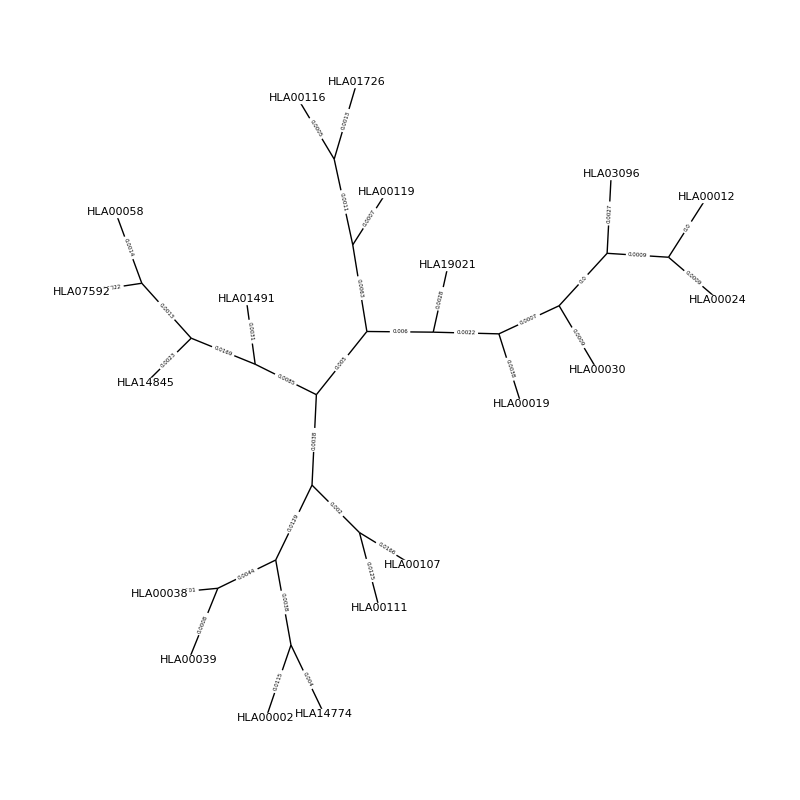
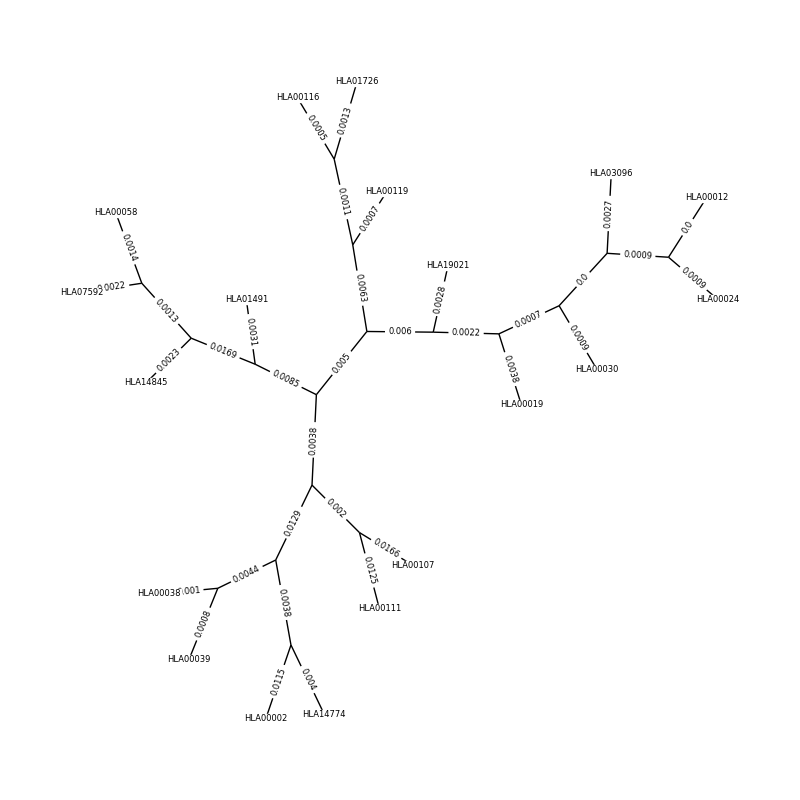
readme, comments on compareAlgorithms

diff --git a/compareAlgorithms.py b/compareAlgorithms.py
@@ -8,24 +8,34 @@ import NeighborJoiningV2
 import UPGMA
 from GenerateMatrix import calculate_distance_matrix
 
+#suffix of input files read and png files output
 suffix = ["HLAA", "HLAB","HLAC"]
 
 for c in range(len(suffix)):
     names = []
+    #read sequences in file [c]
     alignment = AlignIO.read("io/aligned_" + suffix[c] + ".txt", "fasta")
     for record in alignment:
         names.append(record.id)
 
+    #calculate distance matrix
     distance_matrix = calculate_distance_matrix(alignment)
 
+    #params: distance matrix, name of each sequence, places to round branch lengths to
+    #returns: newick string
     upgma_result = UPGMA.UPGMA(distance_matrix,names, 4)
+    # params: distance matrix, places to round branch lengths to
+    # returns: tuple (array cluster, networkx graph)
     nj_result = NeighborJoiningV2.NeighborJoining2(distance_matrix,4)
 
+    #save tree to file and queues up plot
     parser = Phylo.NewickIO.Parser.from_string(upgma_result)
     tree = parser.parse()
     Phylo.draw(list(tree)[0], branch_labels=lambda c: c.branch_length, do_show=False)
-    plt.savefig('io/upgma_' + suffix[c] + '.png')  # Adjust dpi as needed
-    #plt.close()
+    plt.savefig('io/upgma_' + suffix[c] + '.png')
 
+    #save tree to file and queues up plot
     NeighborJoiningV2.saveGraph(nj_result[1], names, 'io/nj_' + suffix[c] + '.png')
+
+    #display queued trees
     plt.show()

diff --git a/NeighborJoiningV2.py b/NeighborJoiningV2.py
@@ -129,9 +129,9 @@ def displayGraph(G, names):
         G, pos, ax=ax
     )
     minlens = nx.get_edge_attributes(G, 'minlen')
-    nx.draw_networkx_edge_labels(G, pos, edge_labels=minlens, font_size=8)
+    nx.draw_networkx_edge_labels(G, pos, edge_labels=minlens, font_size=5)
     nx.draw_networkx_labels(
-        G, pos, ax=ax, labels=nameLabels, font_size=10,
+        G, pos, ax=ax, labels=nameLabels, font_size=8,
         bbox=dict(pad=0, color="white")
     )
     fig.tight_layout()
@@ -151,9 +151,9 @@ def saveGraph(G, names, file_name):
         G, pos, ax=ax
     )
     minlens = nx.get_edge_attributes(G, 'minlen')
-    nx.draw_networkx_edge_labels(G, pos, font_size=4, edge_labels=minlens)
+    nx.draw_networkx_edge_labels(G, pos, font_size=6, edge_labels=minlens)
     nx.draw_networkx_labels(
-        G, pos, ax=ax, labels=nameLabels, font_size=8,
+        G, pos, ax=ax, labels=nameLabels, font_size=6,
         bbox=dict(pad=0, color="white")
     )
     fig.tight_layout()

diff --git a/README.md b/README.md
@@ -3,11 +3,14 @@ HLA Sequence Comparison and Analysis
 This CS123A project performs a comparison analysis of HLA sequences using traditional alignment methods (UPGMA and Neighbor Joining) to determine which HLA sequences match the most. This analysis can potentially be used to find the most matching organ for people or animals.
 
 Files
-finalProject.py: Main script to perform the analysis.
+compareAlgorithms.py: Main script to perform the analysis.
 UPGMA.py: Script containing the implementation of the UPGMA algorithm.
-NeighborJoining.py: Script containing the implementation of the Neighbor Joining algorithm.
-GenerateMatrix.py: Script to calculate the distance matrix from sequence alignments.
-hla_data.csv: Sample CSV file containing HLA typing data.
+NeighborJoiningV2.py: Script containing the implementation of the Neighbor Joining algorithm.
+msa_clustalomega.py: Script containing the Clustal Omega Multiple Sequence Alignment algorithm.
+io Folder: contains input and output files
+    -input: contains unaligned sequence data in fasta format, input to msa_clustalomega
+    -aligned: contains sequence data that is aligned in fasta format, input to compareAlgorithms
+    -nj/upgma.png: saved images of phylogenetic trees, output of compareAlgorithms
 
 Prerequisites
 Python 3.x
@@ -19,8 +22,18 @@ You can install the required Python libraries using pip:
 pip install numpy pandas biopython matplotlib
 
 Running the Analysis
-Prepare HLA Data and HLA Sequences
-Run the Main Script: python finalProject.py
+1. Enter all HLA A,B,C sequences into their respective input_HLA files.
+2. Run msa_clustalomega.py. Aligned sequences will be placed into aligned_HLA files.
+If aligned sequences are already available, they can be placed directly into the aligned_HLA files
+3. Run compareAlgorithms.py.
+This will step through all aligned files, for each one displaying both UPGMA and neighbor joining phylogenetic trees.
+Trees will also be stored in their respective .png files.
+If you wish to analyze more sequence types or modify which types are analyzes, modify the
+suffix = ["HLAA", "HLAB","HLAC"] at the top of compareAlgorithms.
+This list represents the suffix of the input files read and tree images returned.
+Ex. If you wish to additionally analyze BRAF, you can place it into the list
+["HLAA", "HLAB","HLAC", "BRAF"]
+and make sure "aligned_BRAF.txt" containing the sequences is in the io folder.
 
 Output
 The script will print the performance comparison of UPGMA and Neighbor Joining algorithms and the results for each pair of individuals. Additionally, it will visualize the UPGMA and Neighbor Joining clusters for each pair.
